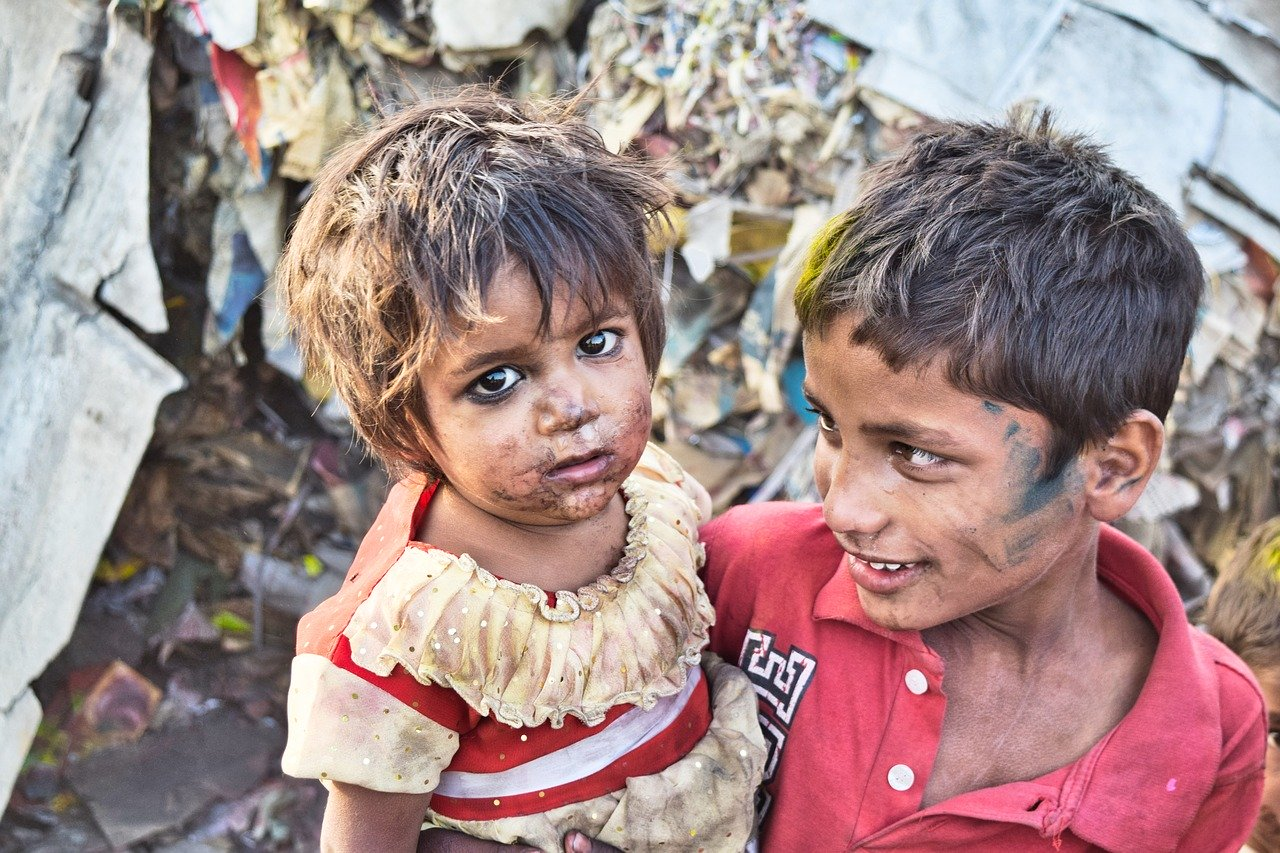
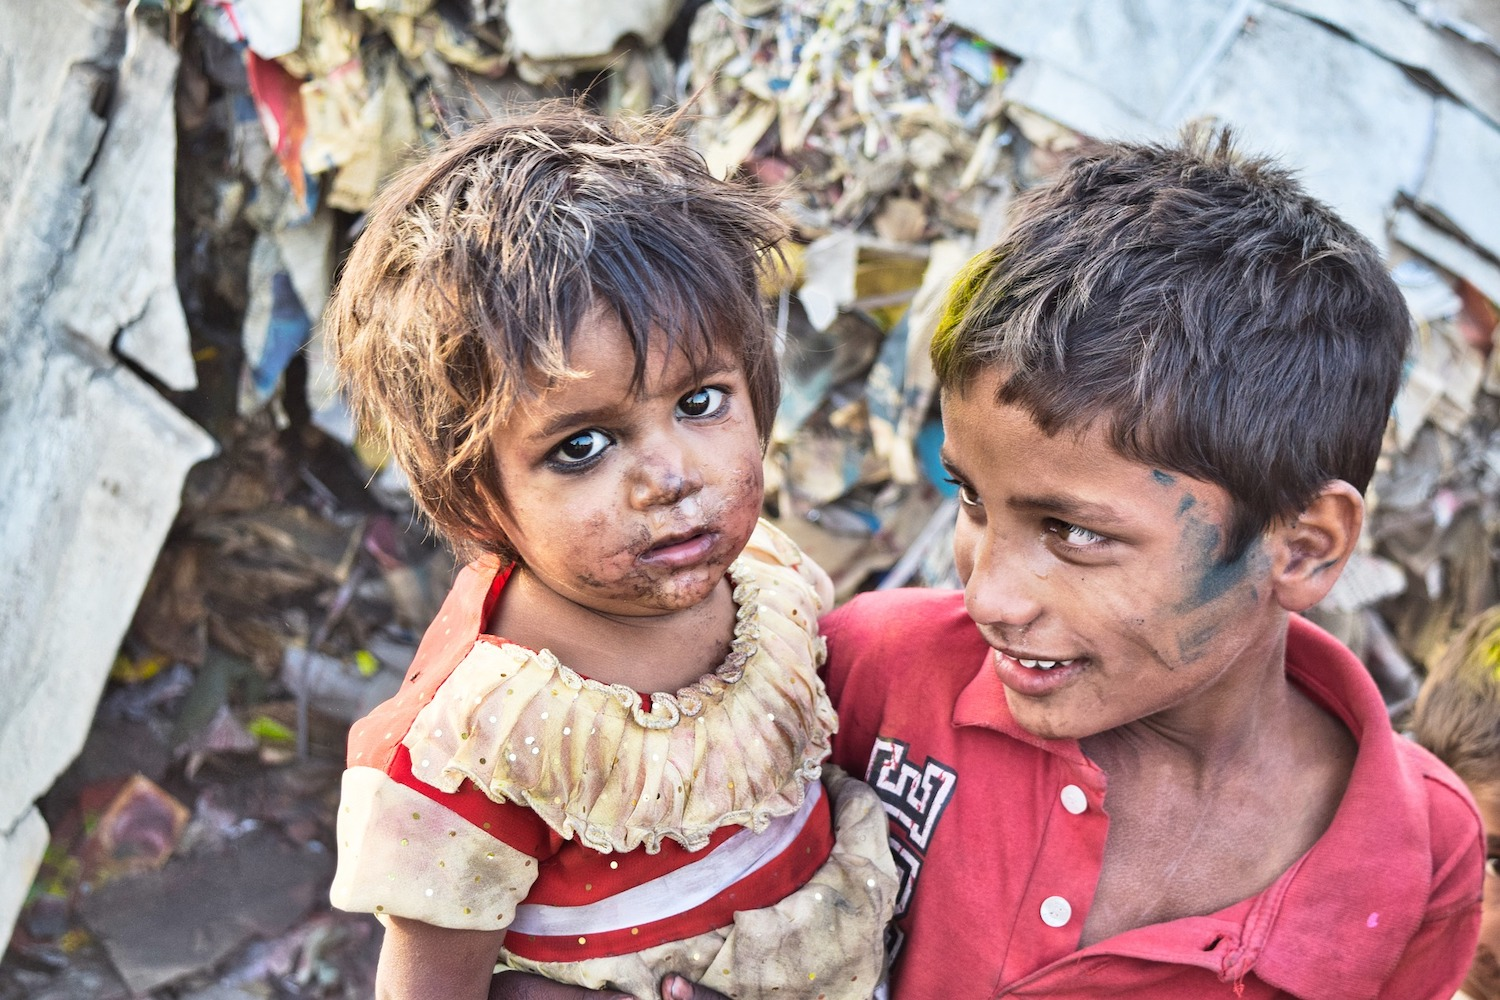
updated images under Our Work section in index.html

Changed region(s): [[0.6562, 0.2743, 0.7188, 0.3048], [0.625, 0.3048, 0.6562, 0.3353], [0.3125, 0.1524, 0.3438, 0.1829]]

diff --git a/index.html b/index.html
@@ -82,7 +82,7 @@
                     <div class="row padding card_style">
                         <div class="col-xs-12 col-sm-6 col-md-4">
                             <div class="card">
-                                <img src="/images/sad_boy.jpg" alt="sad boy" class="card-img-top">
+                                <img src="/images/smiling_children.jpg" alt="smiling children" class="card-img-top">
                                 <div class="card-body text-center">
                                     <h4 class="card-title">Card Title</h4>
                                     <p class="card-text">Lorem ipsum dolor sit amet, consectetur adipisicing elit. Quasi, error.</p>
@@ -92,7 +92,7 @@
                         </div>
                         <div class="col-xs-9 col-sm-6 col-md-4">
                             <div class="card">
-                                <img src="/images/african_child.jpg" alt="African child" class="card-img-top">
+                                <img src="/images/kids_standing.jpg" alt="kids standing together" class="card-img-top">
                                 <div class="card-body text-center">
                                     <h4 class="card-title">Card Title</h4>
                                     <p class="card-text">Lorem ipsum dolor sit amet, consectetur adipisicing elit. Quasi, error.</p>
@@ -150,7 +150,7 @@
                         <p>Lorem ipsum dolor sit amet consectetur adipisicing elit. Eos, adipisci minus inventore labore maiores eligendi!</p>
                     </div>
                     <div class="col-xs-4 col-sm-12 col-md-12 col-lg-6 col-xl-6">
-                        <img class="img-fluid" src="/images/young_child_standing_at_door.jpg" alt="young child standing at door">
+                        <img class="img-fluid" src="/images/smiling_group_of_kids_bw.jpg" alt="smiling group of kids">
                     </div>
                 </div>
             </div>
